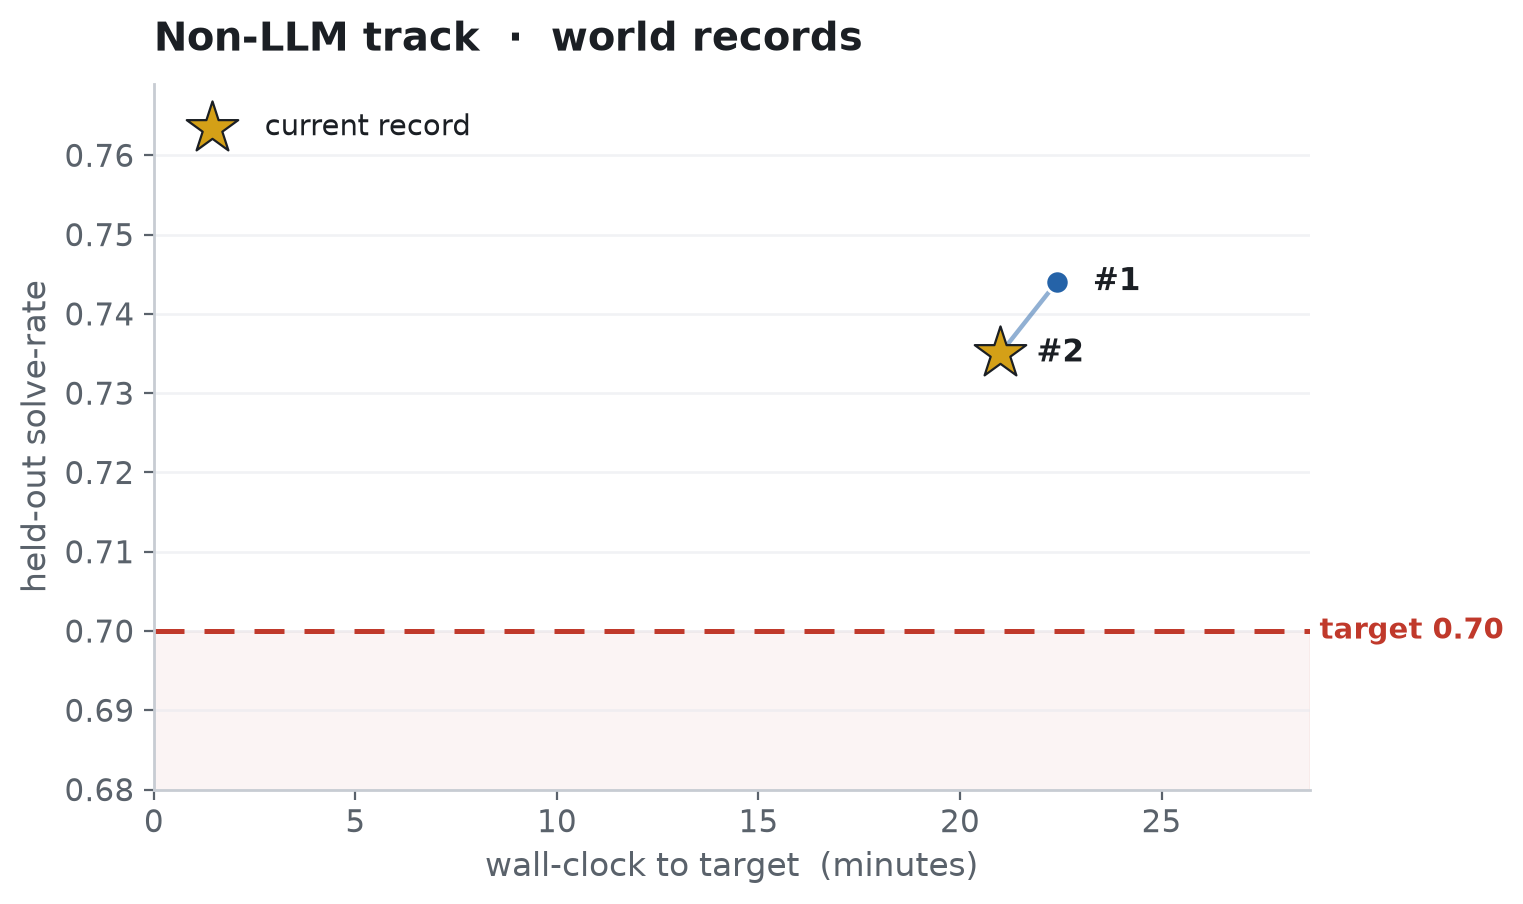
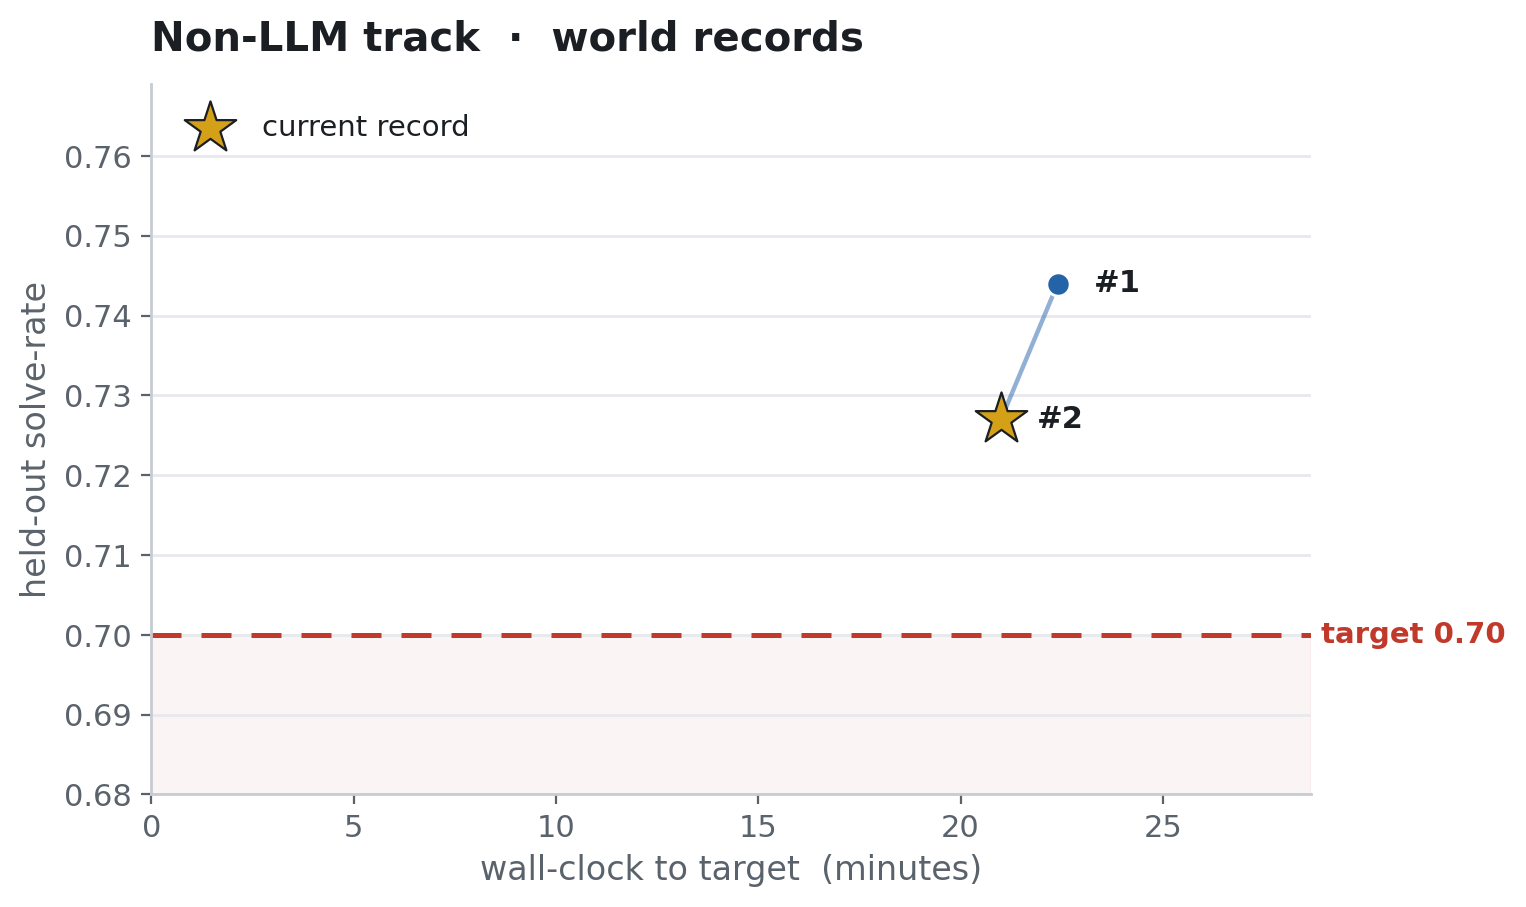
Non-LLM: report worst-of-two-seeds solve-rate (#2 0.735 -> 0.727)
Mirrors the worst-seed leaderboard policy now on main: the held-out column
reports min(submission seed42, verification seed123), not the submission seed.

- #2 (earliest-clearing recut, iter 1200): 0.735 -> 0.727 (worst = seed123);
  still clears, lower CI 0.701 > 0.70 target (by a hair, which is the honest
  picture for an earliest-clearing record). #1 unchanged (submission already
  its worst). Non-LLM figure redrawn from the table.

Claude-Session: https://claude.ai/code/session_01TFJ1K2HwBTh24TPirvHzTL

diff --git a/README.md b/README.md
@@ -49,7 +49,7 @@ uv run python -m eval_speedrun --eval-checkpoint outputs/<run>/step_000075
 | #   | Record time (mm:ss) | Description     | Date       | Log                                                                     | held-out pass@1         | Contributors |
 | --- | ------------------- | --------------- | ---------- | ----------------------------------------------------------------------- | ----------------------- | ------------ |
 | 1   | 22:24               | cnn-mingru h256 | 2026-06-21 | [non_llm/records/2026-06-21_01](non_llm/records/2026-06-21_01_non_llm/) | 0.744 (CI [0.72, 0.77]) | @JeanKaddour |
-| 2 | 21:00 | cnn-mingru h256 — earliest clearing checkpoint (iter 1200, same recipe as #1) | 2026-06-29 | [non_llm/records/2026-06-29_01](non_llm/records/2026-06-29_01_non_llm/) | 0.735 (CI [0.71, 0.76]) | @JeanKaddour |
+| 2 | 21:00 | cnn-mingru h256 — earliest clearing checkpoint (iter 1200, same recipe as #1) | 2026-06-29 | [non_llm/records/2026-06-29_01](non_llm/records/2026-06-29_01_non_llm/) | 0.727 (CI [0.70, 0.75]) | @JeanKaddour |
 
 
 ### Rules
